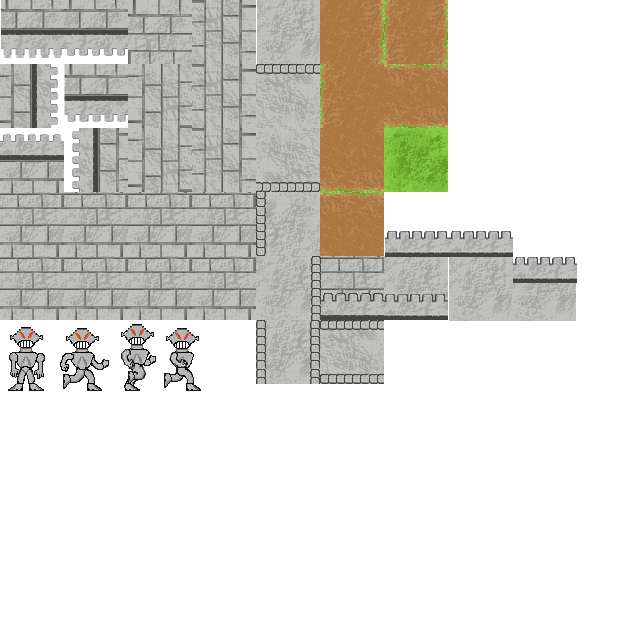
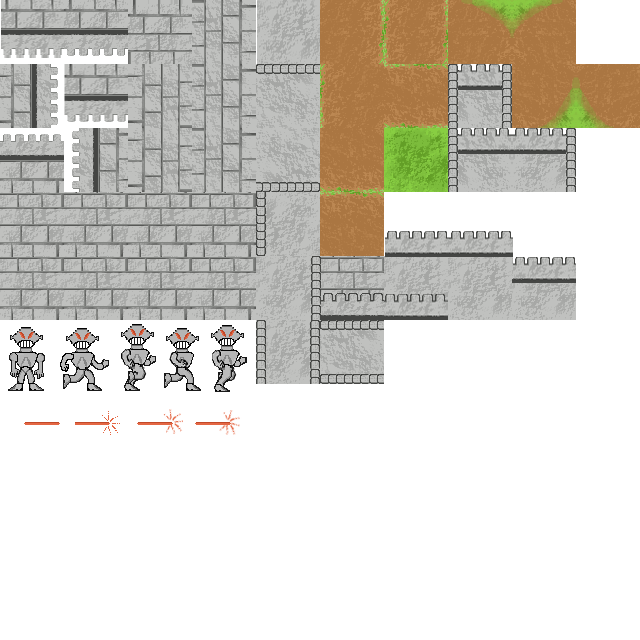
Updated so that you can shoot and stuff.

diff --git a/public/scripts/main.js b/public/scripts/main.js
@@ -1,8 +1,10 @@
 
-var Q = Quintus({ development: true })
-		.include('Sprites, Scenes, Input, 2D, Anim, UI, TMX')
+var Q = Quintus({ development: true });
+
+	   Q.include('Sprites, Scenes, Input, 2D, Anim, UI, TMX, Touch')
 		.setup({ maximize: true })
-		.controls(true);
+		.controls(true)
+		.touch(Q.SPRITE_ALL);
 
 Q.input.keyboardControls({
 	87: 'up',	// W
@@ -10,6 +12,9 @@ Q.input.keyboardControls({
 	83: 'down',	// S
 	68: 'right'	// D
 });
+
+Q.input.touchControls();
+Q.input.mouseControls({ cursor: 'on' });
 
 // Joypads don't seem to work.
 // Q.input.joypadControls();
@@ -24,7 +29,11 @@ Q.SPRITE_DOOR = 8;
 Q.SPRITE_BULLET = 16;
 Q.SPRITE_WALL = 32;
 
-
+Q.el.addEventListener('mousedown', function(){
+	var player = Q('Player').first();
+	if( player )
+		player.shoot();
+});
 
 Q.scene('level1', function(stage){
 	
@@ -33,6 +42,7 @@ Q.scene('level1', function(stage){
 	var player = Q('Player').first();
 	var previous = player;
 	var enemys = [];
+
 	for(var i =0; i< 5; i++) {
 		var enemy = stage.insert(new Q.Enemy({ x: 110+100*i, y: 110+100*i, target: previous, speed: 100 }));
 		var ai = new Ai(enemy);
@@ -44,7 +54,6 @@ Q.scene('level1', function(stage){
 	}
 	
 	stage.insert(new Q.ShipItem());
-	stage.insert(new Q.Spawner({ x: 600, y: 600 }));
 
 	stage.add('viewport').follow(Q('Player').first());
 

diff --git a/public/scripts/sprites.js b/public/scripts/sprites.js
@@ -105,13 +105,15 @@ Q.Sprite.extend('Player', {
 	},
 
 	shoot: function(){
-		/*
-		var angle += (Math.random()-.5)*45;
-		var dx = Math.cos(angle*Math.PI/180)*this.speed;
-		var dy = Math.sin(angle*Math.PI/180)*this.speed;
-		// Check if need range.
-		thisAi.self.stage.insert(new Q.Laser({ x: this.p.x, y: this.p.y,vx:dx, vy:dy, range: this.range, angle: angle+90}));
-		*/
+		var dx = (Q.inputs['mouseX'] - this.p.x);
+		var dy = (Q.inputs['mouseY'] - this.p.y);
+		var angle = ((Math.atan2(dy, dx) * 180/Math.PI))
+		
+		dx = Math.cos(angle*Math.PI/180)*this.p.speed;
+		dy = Math.sin(angle*Math.PI/180)*this.p.speed;
+
+		var laser = new Q.Laser({ x: this.p.x, y: this.p.y,vx:dx, vy:dy, angle: angle+90});
+		this.stage.insert(laser);
 	}
 
 });
@@ -176,7 +178,7 @@ Q.Sprite.extend('Laser', {
 			if(collision.obj.isA('Player')){
 				if(this.p.shooter)
 					this.p.shooter.p.projectile = null;
-				this.destroy();
+				//this.destroy();
 			} else if( collision.obj.p.type == Q.SPRITE_WALL ){
 				if(this.p.shooter)
 					this.p.shooter.p.projectile = null;
@@ -232,6 +234,9 @@ Q.Sprite.extend('Spawner', {
 		});
 
 		this.timeCounter = 0;
+		this.on('mouseup', function(){
+			console.log('mousedown event');
+		})
 	},
 
 	step: function(dt){

diff --git a/public/scripts/anims.js b/public/scripts/anims.js
@@ -9,3 +9,9 @@ Q.animations('player', {
 	run_left: 	{ frames: [49, 50, 51, 52, 53, 54, 55], rate: 1/15 },
 	standing: 	{ frames: [28] }
 });
+
+/*
+Q.animations('portal', {
+
+})
+*/
